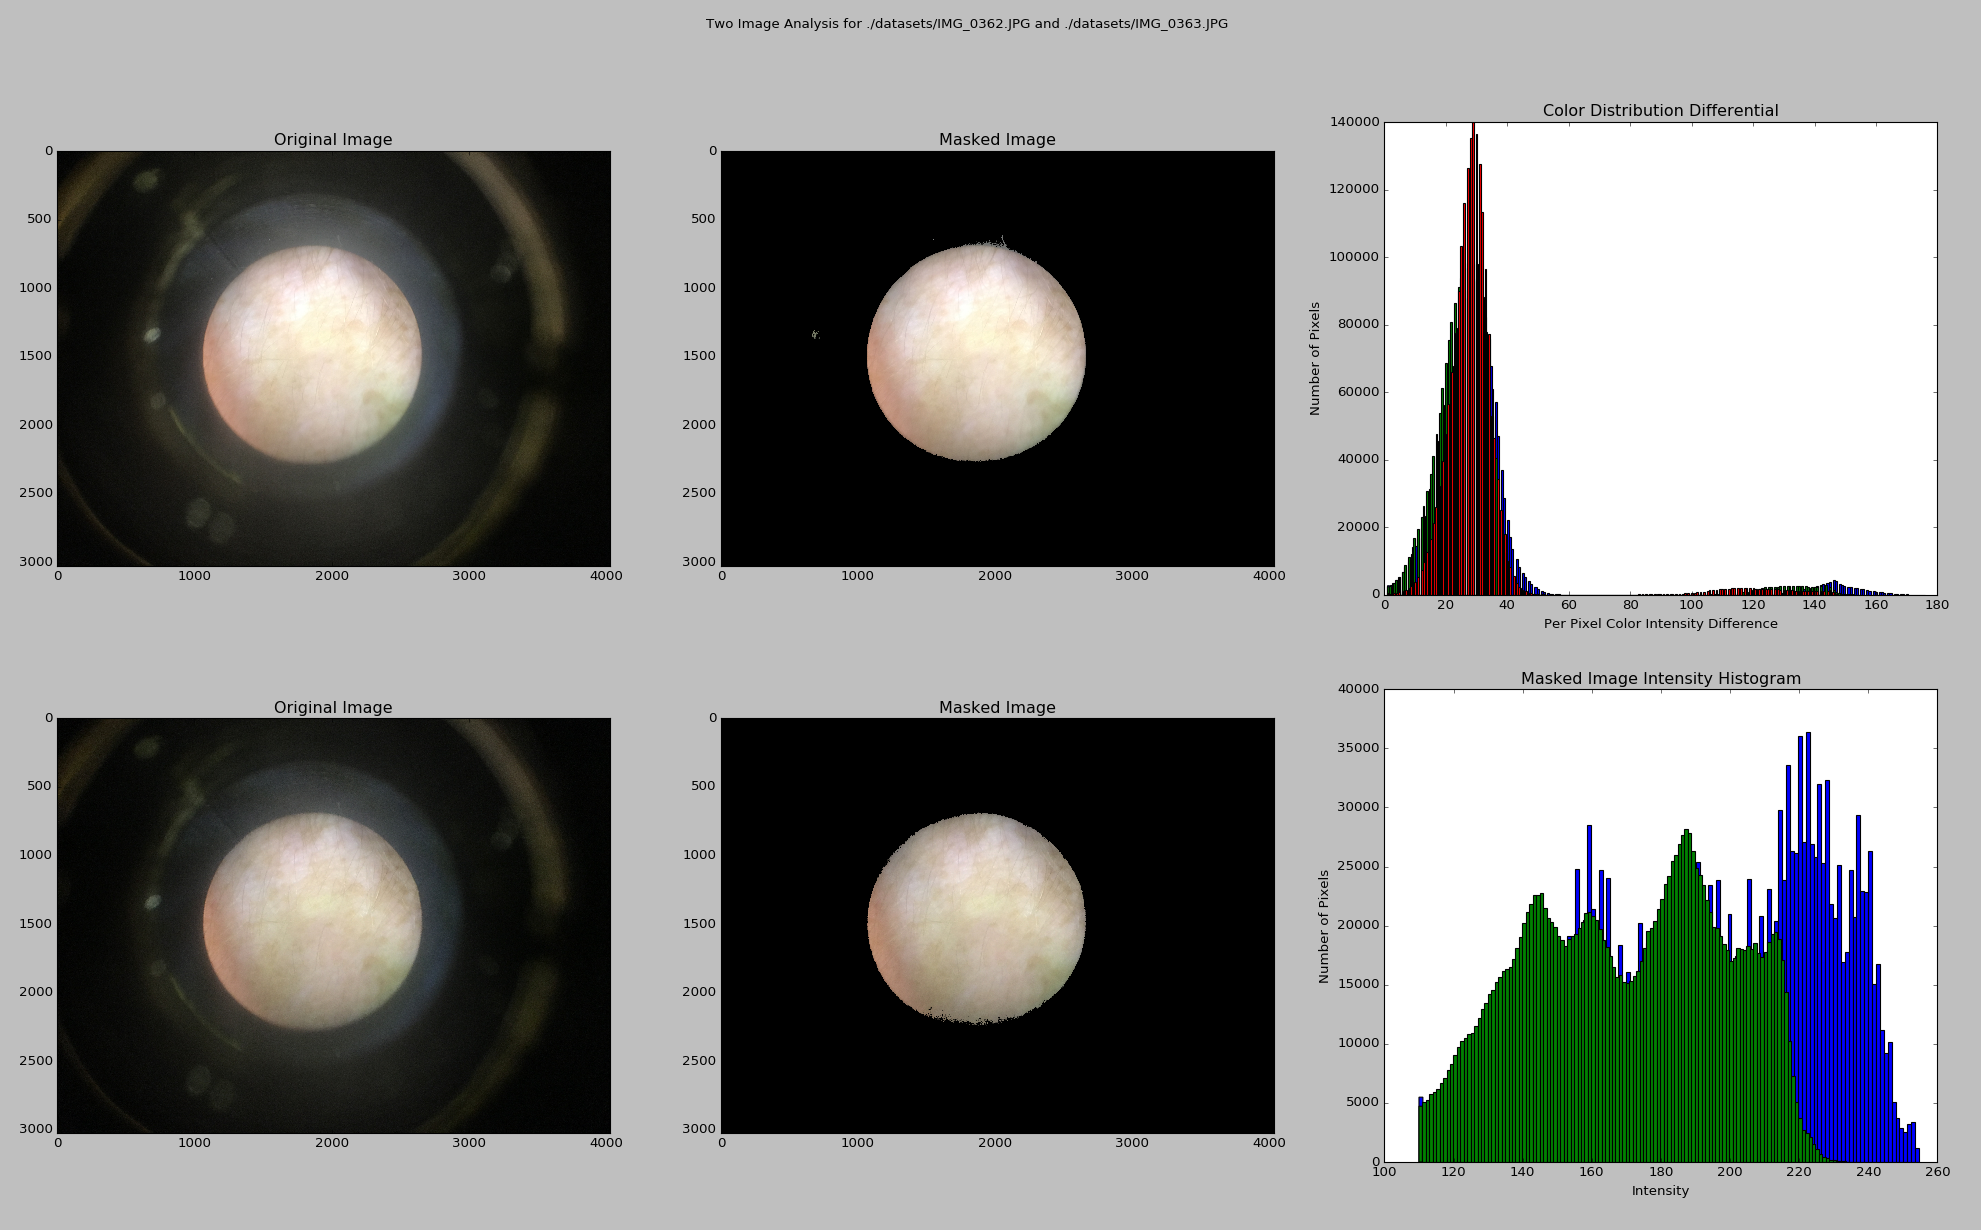
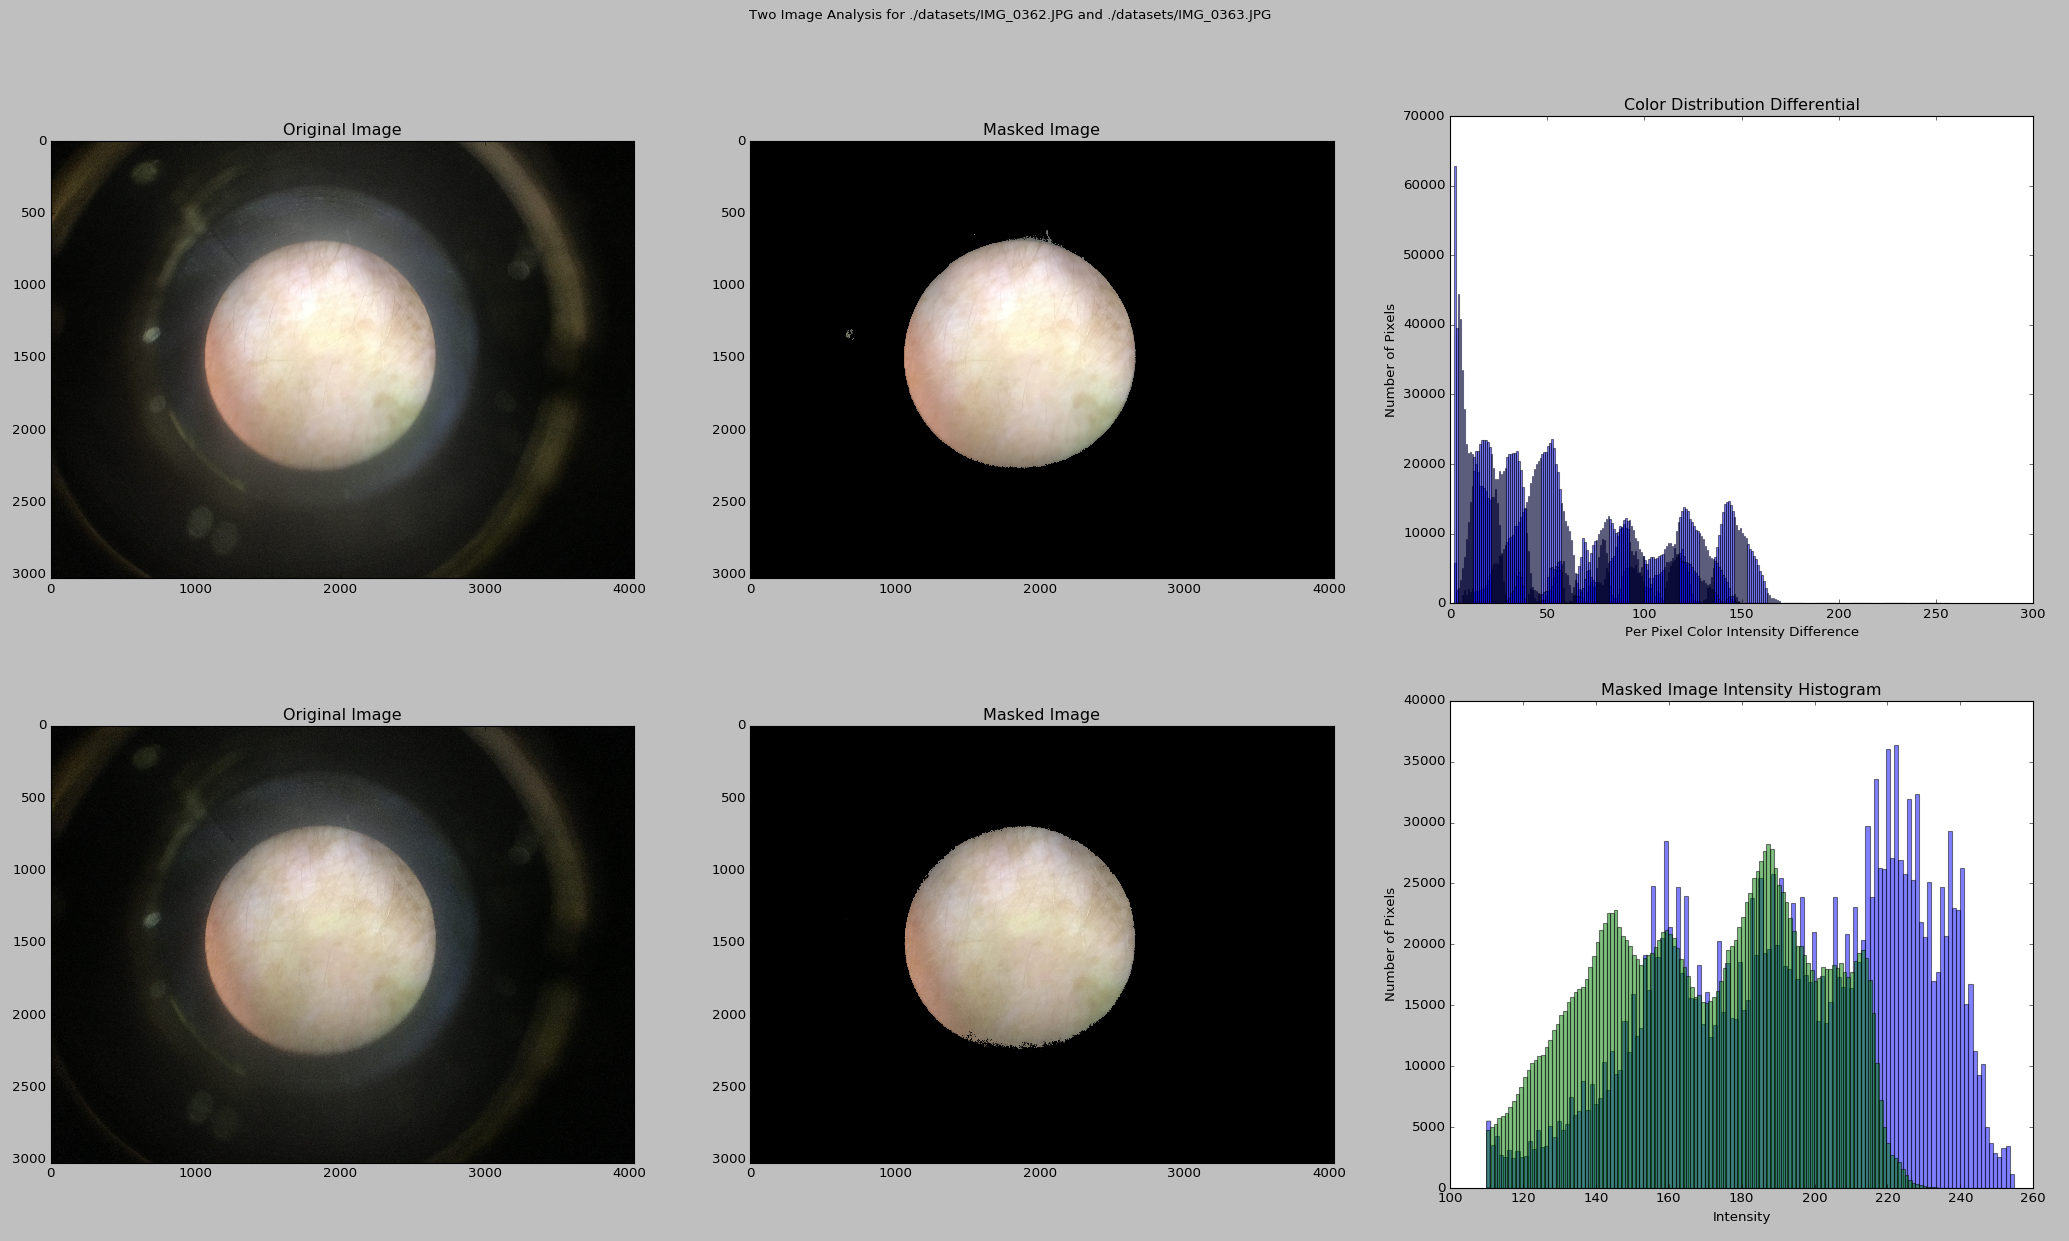
Fix color diff histogram, add transparency

diff --git a/processing.py b/processing.py
@@ -17,10 +17,10 @@ def image_avg_intensity(image_array):
 
 
 def plot_color_histogram(figure, red, green, blue):
-    figure.hist(blue, COLOR_CHANNEL_MAX)
+    figure.hist(blue, COLOR_CHANNEL_MAX, alpha=0.5)
     figure.hold(True)
-    figure.hist(green, COLOR_CHANNEL_MAX)
-    figure.hist(red, COLOR_CHANNEL_MAX)
+    figure.hist(green, COLOR_CHANNEL_MAX, alpha=0.5)
+    figure.hist(red, COLOR_CHANNEL_MAX, alpha=0.5)
     figure.set_xlabel('Color Intensity')
     figure.set_ylabel('Number of Pixels')
     figure.set_title('Masked Color Histogram')
@@ -44,7 +44,7 @@ def plot_intensity_histogram(figure, raw_color_data, dimensions):
     masked_img_data = u.mask(img_data, EFFECTIVE_IMAGE_BOUNDARY_THRESHOLD)
     intensity_vals = u.flatten([[x for x in row if x != 0] for row in masked_img_data])
 
-    figure.hist(intensity_vals, COLOR_CHANNEL_MAX/2)
+    figure.hist(intensity_vals, COLOR_CHANNEL_MAX/2, alpha=0.5)
     figure.set_xlabel('Intensity')
     figure.set_ylabel('Number of Pixels')
     figure.set_title('Masked Image Intensity Histogram')
@@ -109,8 +109,8 @@ def two_image_analysis(file1, file2):
 
 
 def main():
-    # single_image_analysis('./datasets/IMG_0362.JPG')
-    two_image_analysis('./datasets/IMG_0362.JPG', './datasets/IMG_0363.JPG')
+    single_image_analysis('./datasets/IMG_0362.JPG')
+    # two_image_analysis('./datasets/IMG_0362.JPG', './datasets/IMG_0363.JPG')
 
 
 main()

diff --git a/utility.py b/utility.py
@@ -62,8 +62,12 @@ def color_mask(image_array, threshold):
 
 
 def color_histogram_diff(figure, color1, color2):
-    color_diff = [abs(color) for color in np.subtract(color2,color1) if color != 0]
-    figure.hist(color_diff, bins=COLOR_CHANNEL_MAX)
+    vals1, bins1 = np.histogram(color1, bins=COLOR_CHANNEL_MAX, range=(0,COLOR_CHANNEL_MAX))
+    vals2, bins2 = np.histogram(color2, bins=COLOR_CHANNEL_MAX, range=(0,COLOR_CHANNEL_MAX))
+    # We ignore the zero bucket since the mask will blow this up
+    vals1[0] = 0
+    vals2[0] = 0
+    figure.bar(bins1[1:], list(map(abs, list(np.subtract(vals2, vals1)))), alpha=0.5)
 
 
 def get_rgb_from_masked_color_array(color_array):
